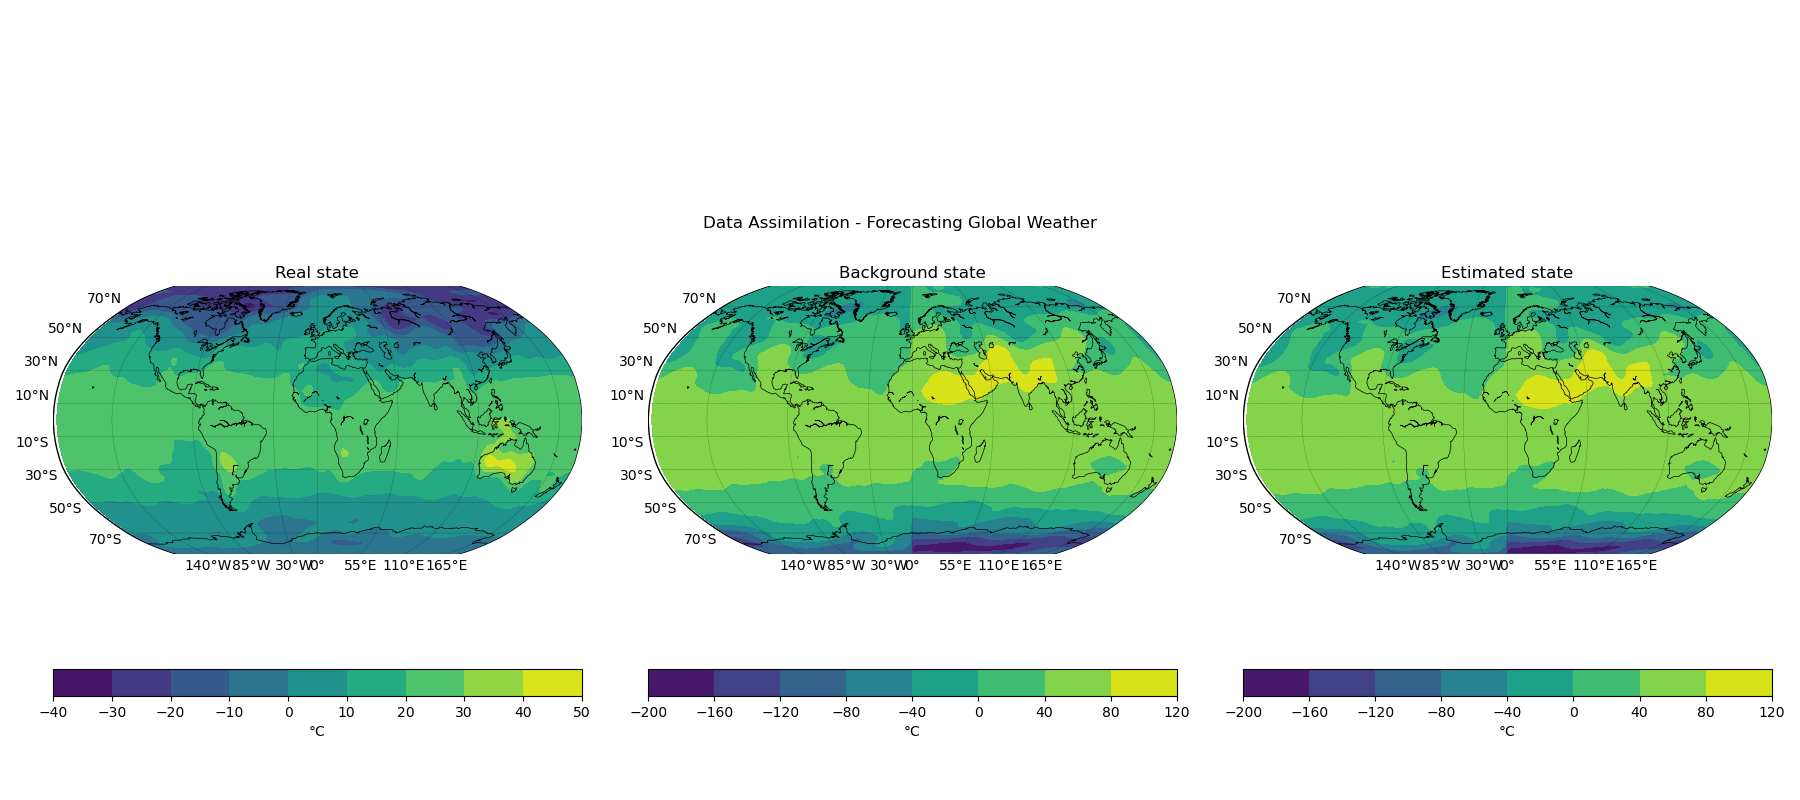
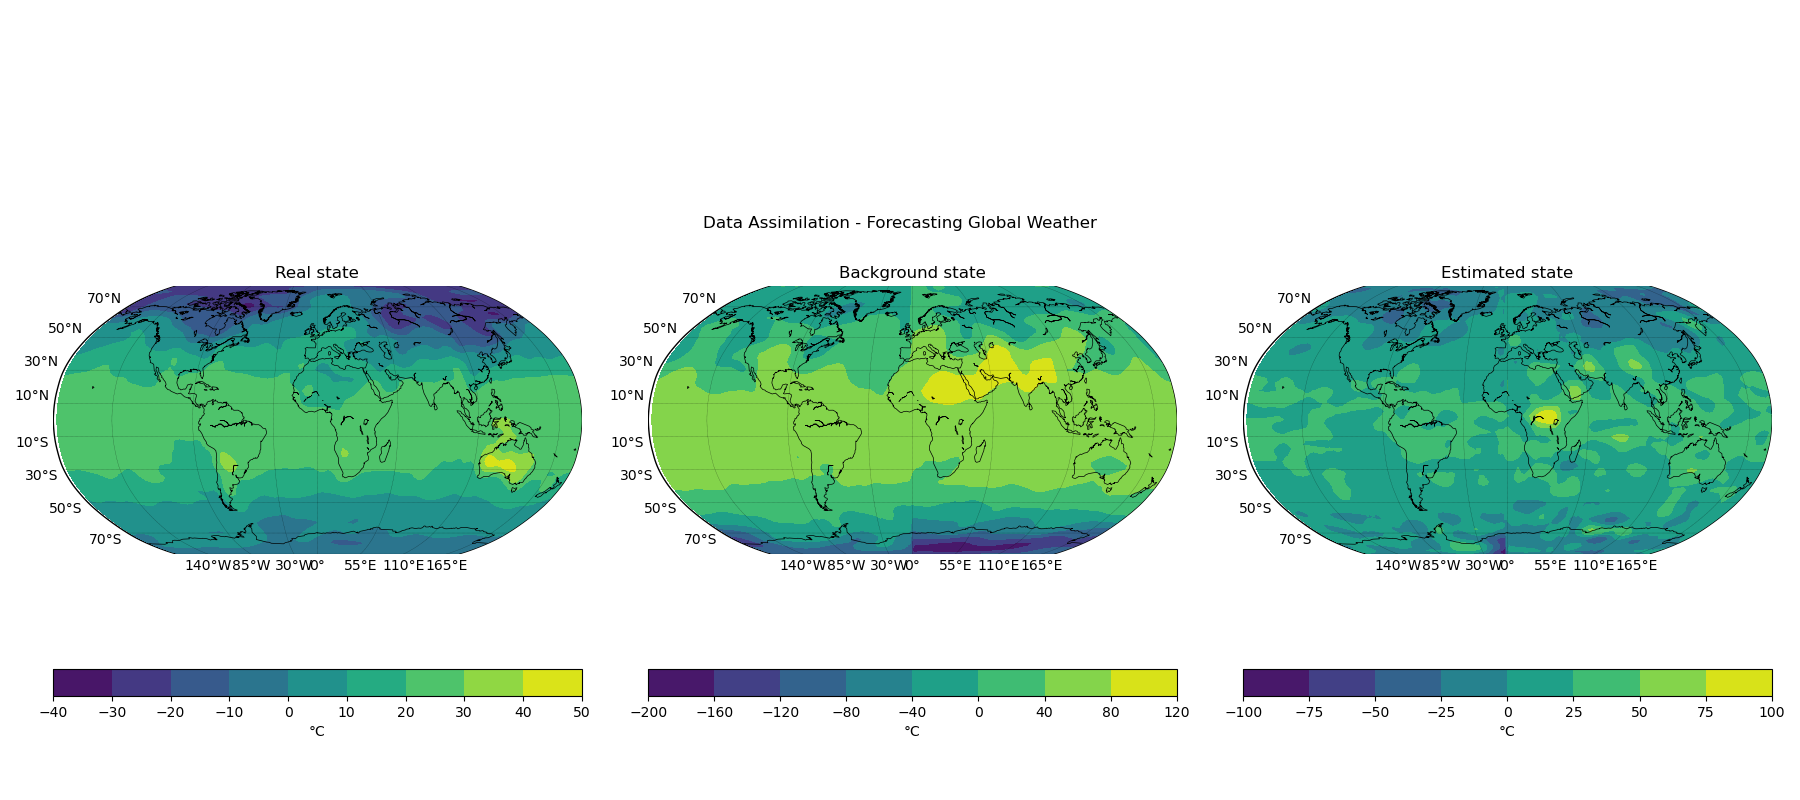
feat: ✨update decorrelation matrix method! All done to create exps!

Changed region(s): [[0.6844, 0.3438, 0.9956, 0.7188], [0.7156, 0.875, 0.7778, 0.9062]]

diff --git a/data_assimilation/generate_decorrelation_matrix.py b/data_assimilation/generate_decorrelation_matrix.py
@@ -1,0 +1,39 @@
+"""
+This code generates decorrelation matrix for influence radio like: 3, 5, 10, 15, 30, 45
+the number of latitudes has to be an even number!
+"""
+
+import numpy as np
+
+N_LATS = 73
+N_LONS = 144
+
+j_temp = list(range(-(N_LONS//2), (N_LONS//2)))  # To center any column: (i,0)
+
+
+def get_distances_matrix():
+    """Compute distances matrix "L" based on Euclidian distance
+    Returns:
+        np.array: distances matrix L
+    """
+
+    D = np.zeros((N_LATS*N_LONS, N_LATS*N_LONS))
+
+    for i in range(N_LATS):
+        for j in range(N_LONS):
+            for ii in range(N_LATS):
+                for jj in range(N_LONS):
+                    delta_i = abs(i-ii)
+                    delta_j = abs(j-jj)
+                    D[i*N_LONS+j, ii*N_LONS+jj] = delta_i**2 + \
+                        min(delta_j, N_LONS - delta_j)**2
+    return D
+
+
+print('Generating distances matrix')
+D = get_distances_matrix()
+
+for r in [3, 5, 10, 15, 30, 45]:
+    print(f'Generating decorrelation matrix for influence radio: {r}')
+    np.save(
+        f"./data_assimilation/decorrelation_matrices/decorrelation_r{r}", np.exp(-.5*D/r**2))

diff --git a/data_assimilation/data_assimilation_steps_decorrelation.py b/data_assimilation/data_assimilation_steps_decorrelation.py
@@ -94,15 +94,7 @@ def plot(xb, xt, xa, day, state):
     plt.close(fig)
     images.append(imageio.imread(f'./data_assimilation/plots/{VARIABLE}/subplot_{day}{state}.png'))
 
-def get_decorrelation_matrix(r):
-    L = np.zeros((73*144, 73*144))
-    for i in range(73): # lats
-        for j in range(144): # lons
-            for ii in range(73):
-                for jj in range(144):
-                    dij = np.sqrt(np.power(i-ii,2)+np.power(j-jj,2))
-                    L[i*144+j, ii*144+jj] = np.exp(-0.5*(dij)**2/r**2)
-    return L
+
 
 NUMBER_OF_MEMBERS = 50
 x0 = data_state[0][0].flatten()
@@ -121,7 +113,7 @@ Xa = np.array(Xb0.copy()).astype('float32')
 err_a = []
 err_b = []
 print("Getting decorrelation matrix...")
-L = get_decorrelation_matrix(5)
+L = np.load('./data_assimilation/decorrelation_matrices/decorrelation_r15.npy')
 print("Data assimilation steps...")
 for day in range(NUMBER_OF_ASSIMILATION_CYCLES-1):
     print(f'Day:{day}')
